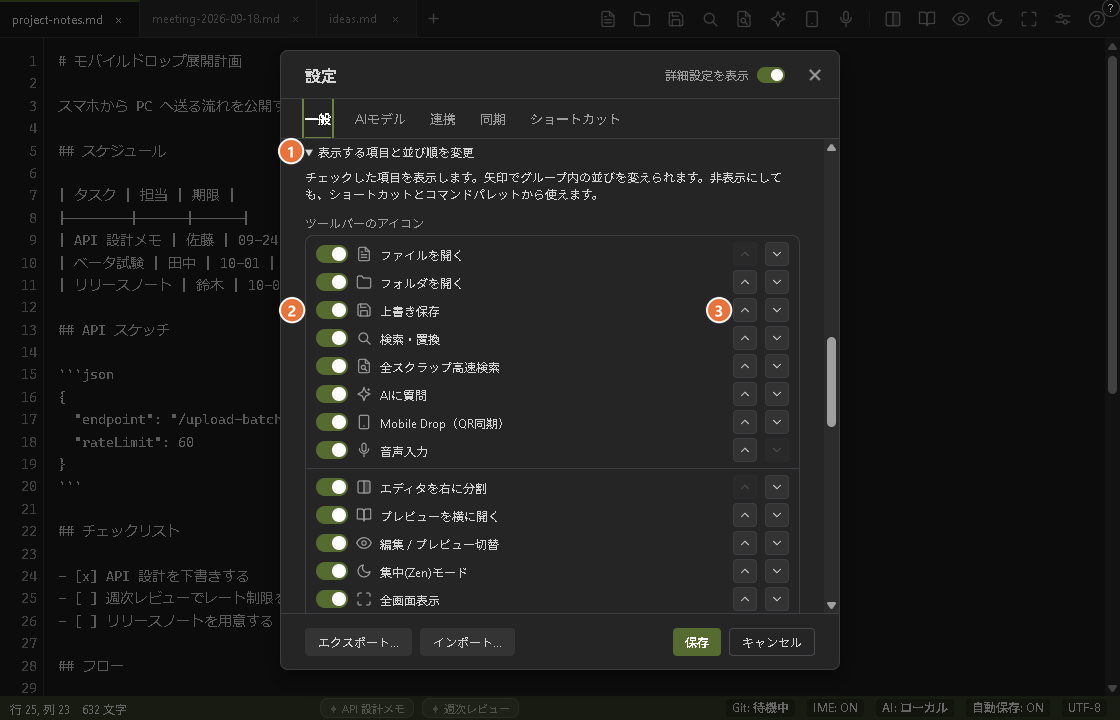
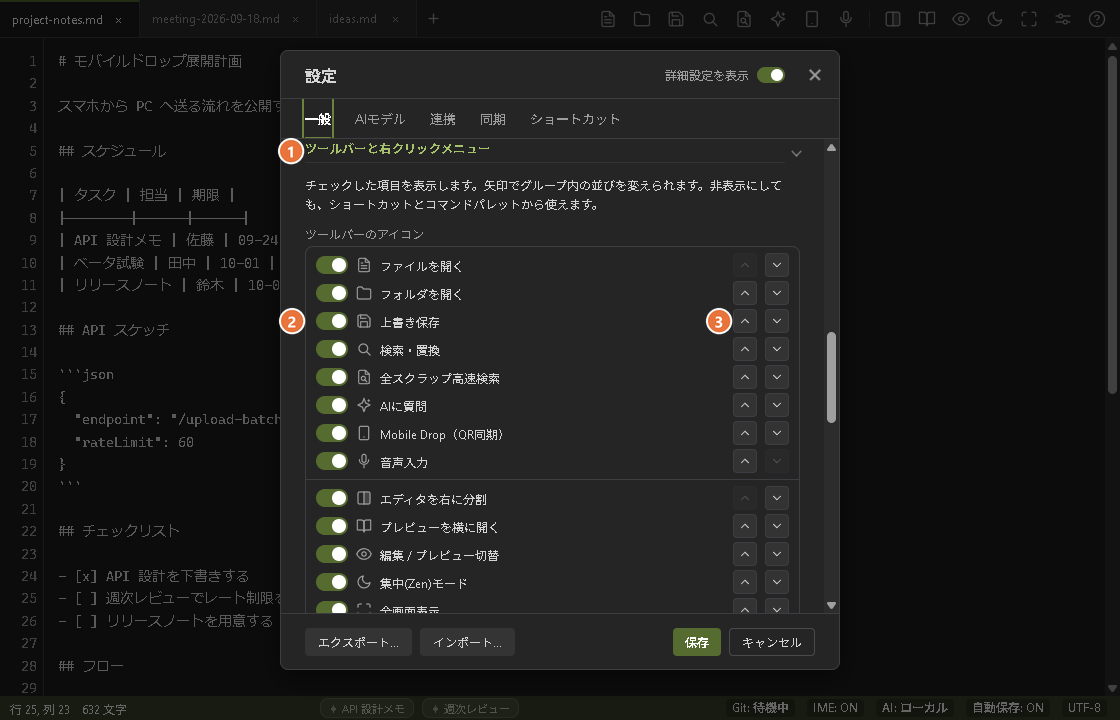
feat(settings): the toolbar section folds like the others; shorter theme color names
The Toolbar and right-click menu section now has the same header with the fold mark at the right
(its own inner fold is gone; the rows are built when the section opens). The theme is called
Theme color and its options Dark Olive (default), Classic Blue, Forest Teal, Charcoal Monochrome
(ja: テーマカラー, ダークオリーブ (default), クラシックブルー, フォレストティール, チャコールモノクローム).

diff --git a/frontend/index.html b/frontend/index.html
@@ -508,10 +508,10 @@
               <h4 data-i18n="sectionAppearance">外観 & ウィンドウ</h4>
             </div>
             <div class="form-group">
-              <label for="cfg-theme" data-i18n="themeLabel">Accent Color Theme:</label>
+              <label for="cfg-theme" data-i18n="themeLabel">Theme color:</label>
               <select id="cfg-theme" class="form-select">
-                <option value="olive" data-i18n="themeOlive">Dark Olive (Default)</option>
-                <option value="blue" data-i18n="themeBlue">VS Code Blue (Classic)</option>
+                <option value="olive" data-i18n="themeOlive">Dark Olive (default)</option>
+                <option value="blue" data-i18n="themeBlue">Classic Blue</option>
                 <option value="forest" data-i18n="themeForest">Forest Teal</option>
                 <option value="charcoal" data-i18n="themeCharcoal">Charcoal Monochrome</option>
               </select>
@@ -608,18 +608,17 @@
 
             <!-- Toolbar / right-click menu: which items are shown, and in what order.
                  The rows are built (chrome_layout.js) only when this section is opened. -->
-            <div class="settings-section-header" data-plain style="margin-top: 18px;">
+            <div class="settings-section-header">
               <h4 data-i18n="sectionLayout">ツールバーと右クリックメニュー</h4>
             </div>
-            <details id="cfg-layout-details" class="settings-details">
-              <summary data-i18n="layoutSummary">表示する項目と並び順を変更</summary>
-              <small data-i18n="layoutHint">Tick an item to show it; use the arrows to reorder it within its group. Shortcuts keep working for hidden items.</small>
+            <div id="cfg-layout-details" class="settings-layout-body">
+              <small data-keep data-i18n="layoutHint">Tick an item to show it; use the arrows to reorder it within its group. Shortcuts keep working for hidden items.</small>
               <div class="layout-block-title" data-i18n="layoutToolbar">ツールバーのアイコン</div>
               <div id="cfg-layout-toolbar" class="layout-list"></div>
               <div class="layout-block-title" data-i18n="layoutContext">右クリックメニュー</div>
               <div id="cfg-layout-context" class="layout-list"></div>
               <button type="button" id="btn-layout-reset" class="btn-secondary layout-reset" data-i18n="layoutReset">初期設定に戻す</button>
-            </details>
+            </div>
           </div>
 
           <!-- 2. AIモデル (AI Models: Text, Ghost Text, Vision, Image Gen) -->

diff --git a/manual_ja.html b/manual_ja.html
@@ -3520,7 +3520,7 @@ md-memo ocr --json memo.png</code></pre>
             </thead>
             <tbody>
               <tr>
-                <td>アクセントカラー配色 (テーマ)</td>
+                <td>テーマカラー</td>
                 <td>ダークオリーブ</td>
                 <td>Dark Olive, VS Code Blue, Forest Teal, Charcoal Monochrome から選択。</td>
               </tr>
@@ -3599,14 +3599,14 @@ md-memo ocr --json memo.png</code></pre>
         </div>
         <p><strong>ツールバーと右クリックメニューを整える</strong></p>
         <ol class="steps">
-          <li><strong>セクションを開く</strong><span>設定 → 一般 の「ツールバーと右クリックメニュー」（「表示する項目と並び順を変更」）を開きます</span></li>
+          <li><strong>セクションを開く</strong><span>設定 → 一般 の「ツールバーと右クリックメニュー」の節を開きます（見出しをクリックします。ほかの節と同じ折りたたみです）</span></li>
           <li><strong>表示する項目を選ぶ</strong><span>ツールバーのアイコンと右クリックメニューの項目を、チェックで選びます。矢印でグループ内の並びを変えられます</span></li>
           <li><strong>変更はすぐ反映される</strong><span>「キャンセル」で元に戻ります。「初期設定に戻す」で、すべてのアイコンが元の並びで戻ります（インストール直後は短いツールバーなので、フルのツールバーにしたいときにも使えます）</span></li>
         </ol>
 
         <figure class="fig"><div class="fig-frame"><img src="./img/manual/ja/settings-toolbar.png" alt="設定の一般タブで、ツールバーと右クリックメニューのセクションを開いたところ" loading="lazy" width="1120" height="720"></div><figcaption>ツールバーと右クリックメニューの設定を開いたところ</figcaption>
           <ol class="fig-legend">
-            <li><strong>セクションの見出し</strong> 表示する項目と並び順を選びます</li>
+            <li><strong>セクションの見出し</strong> クリックで開閉します（ほかの節と同じです）</li>
             <li><strong>チェックボックス</strong> チェックで表示、外すと非表示です（設定アイコンだけは常に表示されます）</li>
             <li><strong>上へ・下への矢印</strong> グループの中で、項目を動かします</li>
           </ol></figure>

diff --git a/frontend/js/i18n.js b/frontend/js/i18n.js
@@ -326,7 +326,6 @@ const I18N = {
     mobileDropCopyFailed: "Selected - press Ctrl+C",
     mobileDropToolbarTitle: "Mobile Drop (QR sync)",
     sectionLayout: "Toolbar & right-click menu",
-    layoutSummary: "Choose the items shown and their order",
     layoutHint: "Tick an item to show it; use the arrows to reorder it within its group. Hidden items still work from their shortcuts and the command palette.",
     layoutToolbar: "Toolbar icons",
     layoutContext: "Right-click menu",
@@ -685,9 +684,9 @@ const I18N = {
     fanchorHintRemote: "{mod}+click to open in the browser",
 
     // General Tab
-    themeLabel: "Accent Color Theme:",
-    themeOlive: "Dark Olive (Calm / Default)",
-    themeBlue: "VS Code Blue (Classic)",
+    themeLabel: "Theme color:",
+    themeOlive: "Dark Olive (default)",
+    themeBlue: "Classic Blue",
     themeForest: "Forest Teal",
     themeCharcoal: "Charcoal Monochrome",
     mermaidToneLabel: "Diagram (Mermaid) colors:",
@@ -1412,7 +1411,6 @@ const I18N = {
     mobileDropCopyFailed: "選択しました。Ctrl+Cでコピーしてください",
     mobileDropToolbarTitle: "Mobile Drop（QR同期）",
     sectionLayout: "ツールバーと右クリックメニュー",
-    layoutSummary: "表示する項目と並び順を変更",
     layoutHint: "チェックした項目を表示します。矢印でグループ内の並びを変えられます。非表示にしても、ショートカットとコマンドパレットから使えます。",
     layoutToolbar: "ツールバーのアイコン",
     layoutContext: "右クリックメニュー",
@@ -1772,11 +1770,11 @@ const I18N = {
     fanchorHintRemote: "{mod}+クリックでブラウザで開く",
 
     // General Tab
-    themeLabel: "アクセントカラー配色 (テーマ):",
-    themeOlive: "ダークオリーブ (Dark Olive / デフォルト)",
-    themeBlue: "VS Code クラシックブルー (Classic Blue)",
-    themeForest: "フォレストティール (Forest Teal)",
-    themeCharcoal: "チャコールモノクローム (Charcoal Monochrome)",
+    themeLabel: "テーマカラー:",
+    themeOlive: "ダークオリーブ (default)",
+    themeBlue: "クラシックブルー",
+    themeForest: "フォレストティール",
+    themeCharcoal: "チャコールモノクローム",
     mermaidToneLabel: "図 (Mermaid) の配色:",
     mermaidToneDark: "ダーク (デフォルト)",
     mermaidToneLight: "ライト (白い背景)",

diff --git a/manual.html b/manual.html
@@ -3400,7 +3400,7 @@ md-memo ocr --json C:\scans\receipt.png</code></pre>
             </thead>
             <tbody>
               <tr>
-                <td>Accent Color Theme</td>
+                <td>Theme color</td>
                 <td>Dark Olive</td>
                 <td>Choose between Dark Olive, VS Code Blue, Forest Teal, and Charcoal Monochrome.</td>
               </tr>
@@ -3479,14 +3479,14 @@ md-memo ocr --json C:\scans\receipt.png</code></pre>
         </div>
         <p><strong>Adjusting the toolbar and right-click menu</strong></p>
         <ol class="steps">
-          <li><strong>Open the section</strong><span>In Settings → General, open "Toolbar &amp; right-click menu" ("Choose the items shown and their order")</span></li>
+          <li><strong>Open the section</strong><span>In Settings → General, open the "Toolbar &amp; right-click menu" section (click its title; it folds like the other sections)</span></li>
           <li><strong>Choose what to show</strong><span>Tick the toolbar icons and right-click items you want. Use the arrows to reorder them within their group</span></li>
           <li><strong>Changes apply at once</strong><span>"Cancel" undoes them. "Reset to default" shows every icon again in the original order (a fresh installation starts with a shorter toolbar, so this is also the way to get the full one)</span></li>
         </ol>
 
         <figure class="fig"><div class="fig-frame"><img src="./img/manual/en/settings-toolbar.png" alt="The General tab of the settings screen with the Toolbar and right-click menu section opened" loading="lazy" width="1120" height="720"></div><figcaption>The Toolbar &amp; right-click menu section opened</figcaption>
           <ol class="fig-legend">
-            <li><strong>Section title</strong> Choose the items shown and their order</li>
+            <li><strong>Section title</strong> Click to open or fold it, like every other section</li>
             <li><strong>Checkboxes</strong> Tick to show, clear to hide (only the Settings icon always stays)</li>
             <li><strong>Up and down arrows</strong> Move an item within its group</li>
           </ol></figure>

diff --git a/frontend/js/app.js b/frontend/js/app.js
@@ -491,7 +491,7 @@
     if (typeof updateGitSyncStatusUI === 'function') updateGitSyncStatusUI();
     updateShortcutLabels();
     // The editor's row labels are translated text: redraw them if it is open.
-    if (layoutDetailsEl && layoutDetailsEl.open) renderLayoutEditors();
+    if (layoutSectionOpen()) renderLayoutEditors();
     // Icon-only buttons are named by their (translated) title: name them again.
     if (window.A11y) window.A11y.refresh();
   }
@@ -8618,11 +8618,16 @@ STRICT SYNTAX SAFETY RULES:
     layoutApi.renderEditor('context', layoutContextHostEl, layoutApi.ensureLayout(config, 'context'), opts);
   }
 
-  if (layoutDetailsEl) {
-    layoutDetailsEl.addEventListener('toggle', () => {
-      if (layoutDetailsEl.open) renderLayoutEditors();
-    });
+  // The editor lives in a section that folds like the others (settings_compact.js wraps it in details.settings-section); its rows
+  // are built when that section opens. toggle does not bubble, so listen in the capture phase.
+  function layoutSectionOpen() {
+    const section = layoutDetailsEl && layoutDetailsEl.closest ? layoutDetailsEl.closest('details.settings-section') : null;
+    return !!(section && section.open);
   }
+  document.addEventListener('toggle', (e) => {
+    const t0 = e.target;
+    if (t0 && t0.matches && t0.matches('details.settings-section') && layoutDetailsEl && t0.contains(layoutDetailsEl) && t0.open) renderLayoutEditors();
+  }, true);
   if (btnLayoutReset) {
     btnLayoutReset.onclick = () => {
       const layoutApi = window.ChromeLayout;
